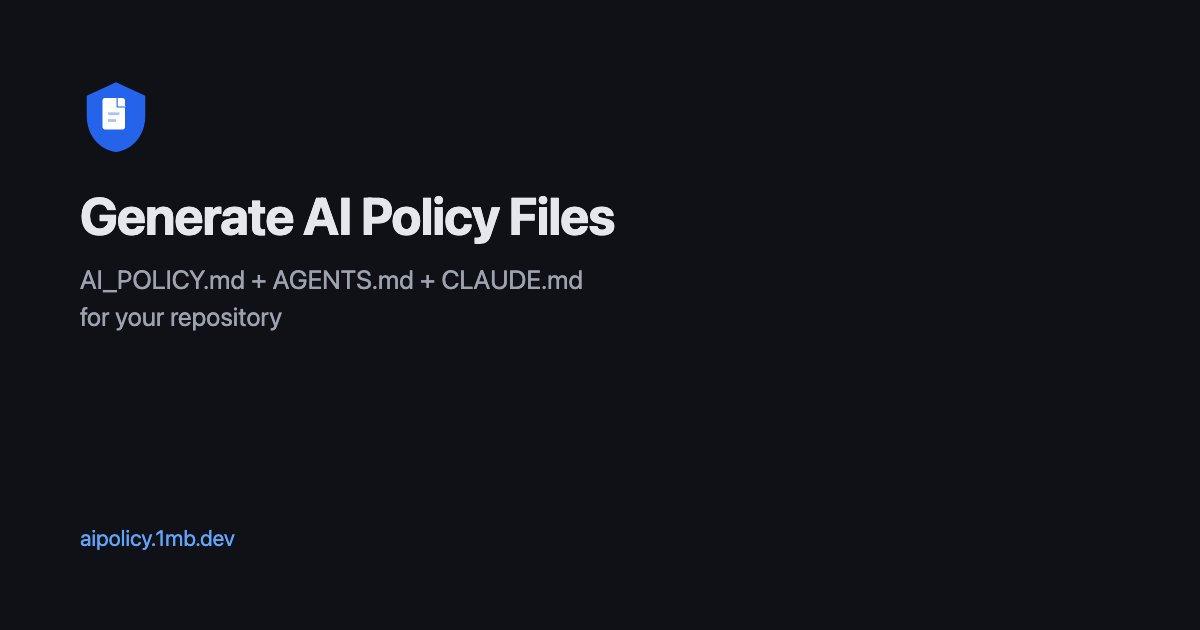
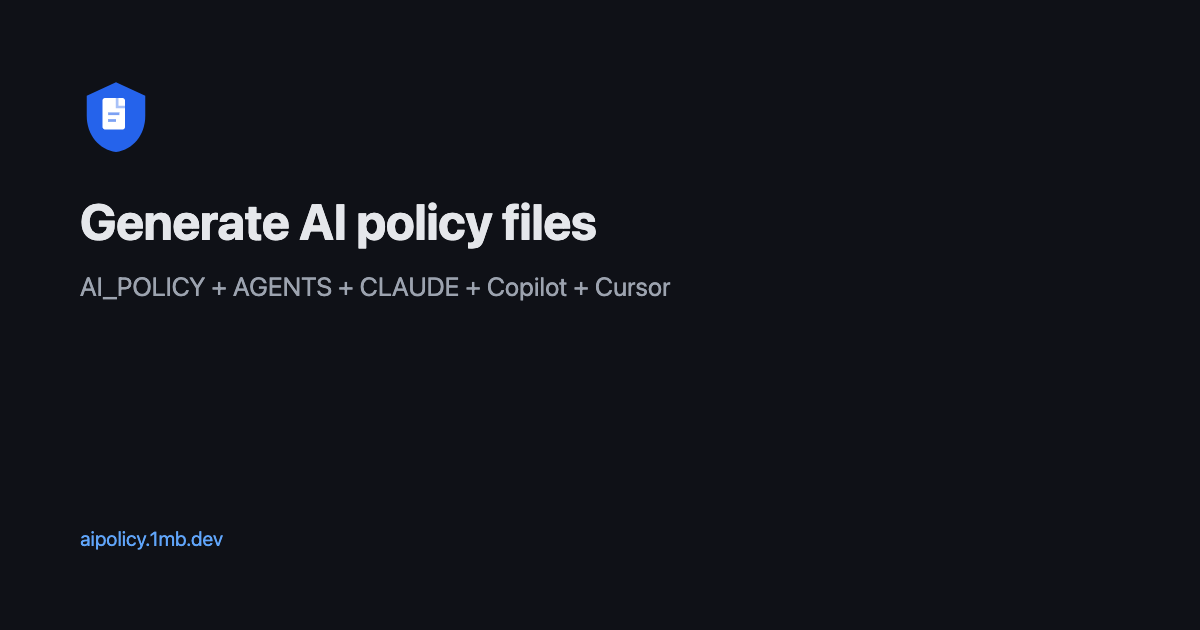
fix(site): name five files in the share card and page metadata

Changed region(s): [[0.0617, 0.4222, 0.555, 0.5429], [0.0617, 0.3016, 0.5242, 0.3921], [0.0617, 0.8444, 0.2158, 0.8746]]

diff --git a/public/index.html b/public/index.html
@@ -26,16 +26,21 @@
 
   <!-- Open Graph -->
   <meta property="og:type" content="website">
+  <meta property="og:site_name" content="aipolicy">
   <meta property="og:title" content="aipolicy &middot; Generate AI policy files for your repository">
   <meta property="og:description" content="Create AI policy and tool config files (AI_POLICY, AGENTS, CLAUDE, Copilot, Cursor) for your repository. No install, no sign-up.">
   <meta property="og:url" content="https://aipolicy.1mb.dev/">
   <meta property="og:image" content="https://aipolicy.1mb.dev/assets/og-image.png">
+  <meta property="og:image:width" content="1200">
+  <meta property="og:image:height" content="630">
+  <meta property="og:image:alt" content="Generate AI policy files: AI_POLICY + AGENTS + CLAUDE + Copilot + Cursor">
 
   <!-- Twitter Card -->
   <meta name="twitter:card" content="summary_large_image">
   <meta name="twitter:title" content="aipolicy &middot; Generate AI policy files for your repository">
   <meta name="twitter:description" content="Create AI policy and tool config files (AI_POLICY, AGENTS, CLAUDE, Copilot, Cursor) for your repository. No install, no sign-up.">
   <meta name="twitter:image" content="https://aipolicy.1mb.dev/assets/og-image.png">
+  <meta name="twitter:image:alt" content="Generate AI policy files: AI_POLICY + AGENTS + CLAUDE + Copilot + Cursor">
 
   <!-- Structured data -->
   <script type="application/ld+json">
@@ -44,7 +49,7 @@
     "@type": "WebApplication",
     "name": "aipolicy",
     "url": "https://aipolicy.1mb.dev",
-    "description": "Generate AI policy files (AI_POLICY.md, AGENTS.md, CLAUDE.md) for your repository.",
+    "description": "Create AI policy and tool config files (AI_POLICY, AGENTS, CLAUDE, Copilot, Cursor) for your repository. No install, no sign-up.",
     "applicationCategory": "DeveloperApplication",
     "operatingSystem": "Any",
     "offers": { "@type": "Offer", "price": "0", "priceCurrency": "USD" },

diff --git a/scripts/og-image.html b/scripts/og-image.html
@@ -1,0 +1,39 @@
+<!DOCTYPE html>
+<!--
+  Source of public/assets/og-image.png (1200x630). Render from the repo root:
+  "/Applications/Google Chrome.app/Contents/MacOS/Google Chrome" --headless=new --hide-scrollbars --screenshot=public/assets/og-image.png --window-size=1200,630 scripts/og-image.html
+-->
+<html lang="en">
+<head>
+  <meta charset="utf-8">
+  <title>aipolicy share card</title>
+  <style>
+    html, body { margin: 0; width: 1200px; height: 630px; overflow: hidden; }
+    body {
+      box-sizing: border-box;
+      padding: 80px;
+      display: flex;
+      flex-direction: column;
+      background: #0f1117;
+      color: #e5e7eb;
+      font-family: -apple-system, BlinkMacSystemFont, "Segoe UI", Roboto, sans-serif;
+    }
+    svg { width: 72px; height: 72px; }
+    h1 { margin: 40px 0 0; font-size: 50px; font-weight: 700; letter-spacing: -0.01em; }
+    p { margin: 20px 0 0; font-size: 26px; color: #9ca3af; }
+    .url { margin-top: auto; font-size: 20px; color: #60a5fa; }
+  </style>
+</head>
+<body>
+  <svg viewBox="0 0 32 32" aria-hidden="true">
+    <path d="M16 1L3 7v9c0 8.3 5.4 15 13 16 7.6-1 13-7.7 13-16V7L16 1z" fill="#2563eb"/>
+    <rect x="10" y="8" width="10" height="14" rx="1.2" fill="#ffffff"/>
+    <path d="M16.5 8v4h4" fill="none" stroke="#2563eb" stroke-width="1.2" opacity="0.4"/>
+    <line x1="12.5" y1="15" x2="17.5" y2="15" stroke="#2563eb" stroke-width="1.2" opacity="0.6"/>
+    <line x1="12.5" y1="18" x2="16" y2="18" stroke="#2563eb" stroke-width="1.2" opacity="0.6"/>
+  </svg>
+  <h1>Generate AI policy files</h1>
+  <p>AI_POLICY + AGENTS + CLAUDE + Copilot + Cursor</p>
+  <div class="url">aipolicy.1mb.dev</div>
+</body>
+</html>
